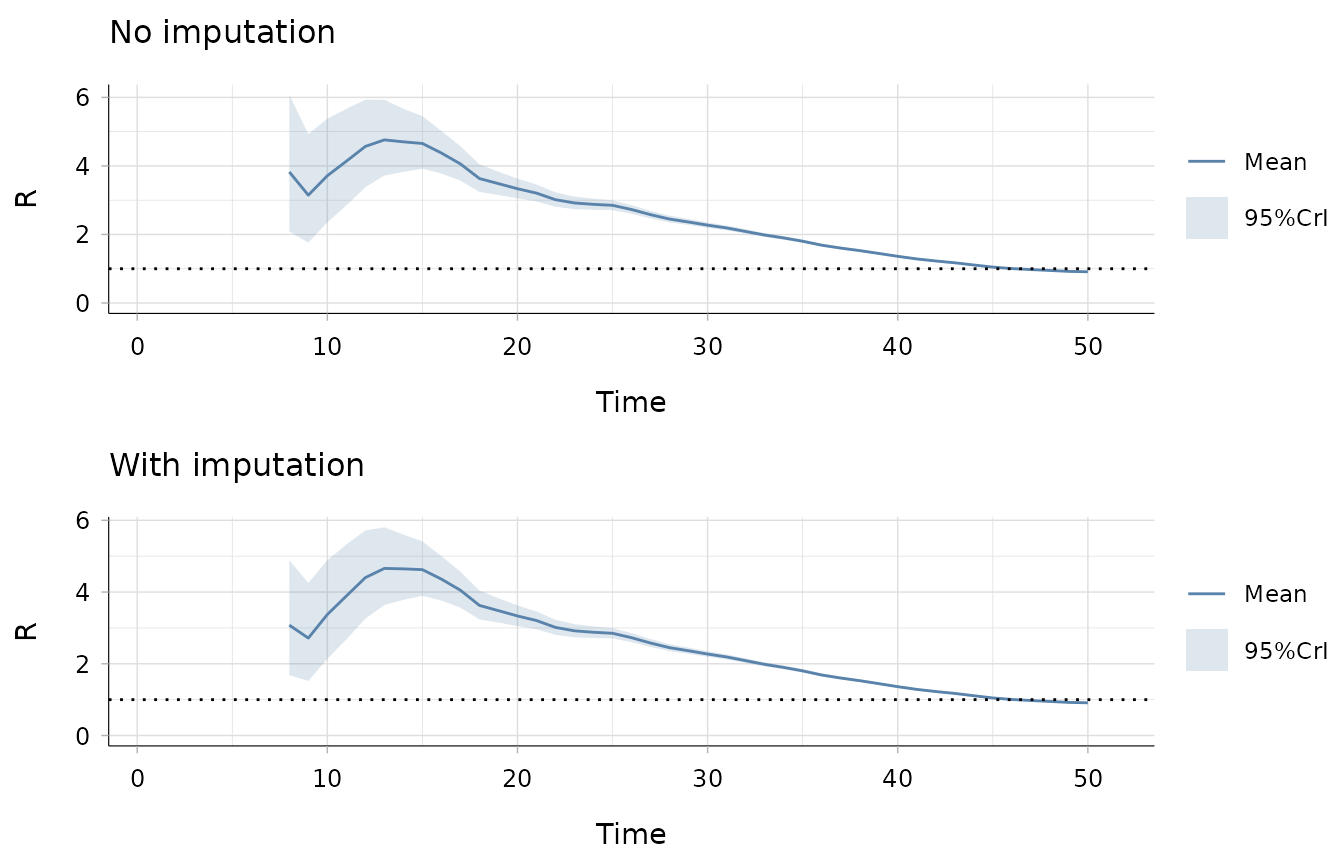
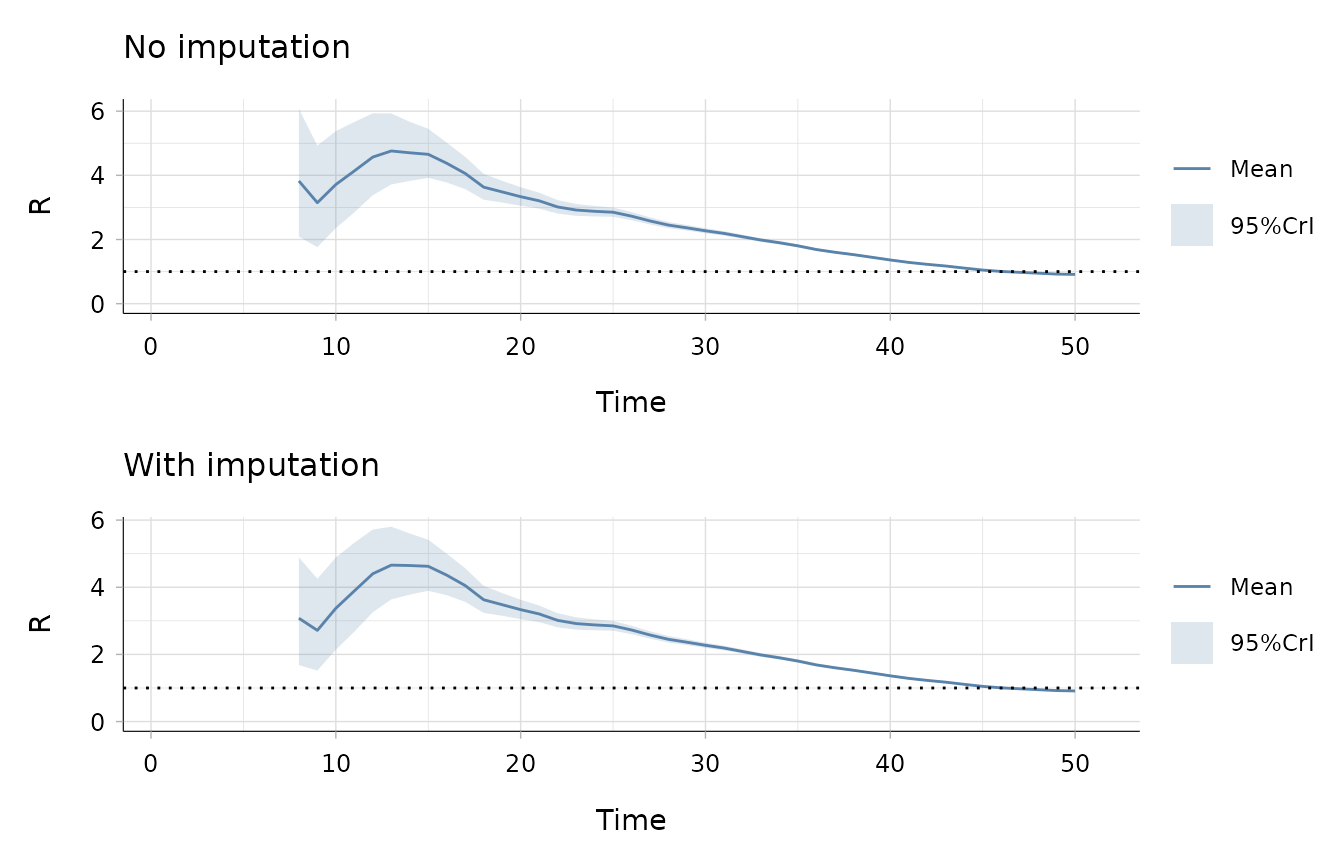
Deploying to gh-pages from @ mrc-ide/EpiEstim@5bb062a2363d33360a8db5c6b178de067da6e3aa 🚀

diff --git a/reference/plot.estimate_R.html b/reference/plot.estimate_R.html
@@ -94,10 +94,10 @@ interval.</p>
 <span>  what <span class="op">=</span> <span class="fu"><a href="https://rdrr.io/r/base/c.html" class="external-link">c</a></span><span class="op">(</span><span class="st">"all"</span>, <span class="st">"incid"</span>, <span class="st">"R"</span>, <span class="st">"SI"</span><span class="op">)</span>,</span>
 <span>  plot_theme <span class="op">=</span> <span class="st">"v2"</span>,</span>
 <span>  add_imported_cases <span class="op">=</span> <span class="cn">FALSE</span>,</span>
-<span>  options_I <span class="op">=</span> <span class="fu"><a href="https://rdrr.io/r/base/list.html" class="external-link">list</a></span><span class="op">(</span>col <span class="op">=</span> <span class="fu"><a href="https://rdrr.io/r/grDevices/palette.html" class="external-link">palette</a></span><span class="op">(</span><span class="op">)</span>, transp <span class="op">=</span> <span class="fl">0.7</span>, xlim <span class="op">=</span> <span class="cn">NULL</span>, ylim <span class="op">=</span> <span class="cn">NULL</span>, interval <span class="op">=</span></span>
-<span>    <span class="fl">1L</span>, xlab <span class="op">=</span> <span class="st">"Time"</span>, ylab <span class="op">=</span> <span class="st">"Incidence"</span><span class="op">)</span>,</span>
-<span>  options_R <span class="op">=</span> <span class="fu"><a href="https://rdrr.io/r/base/list.html" class="external-link">list</a></span><span class="op">(</span>col <span class="op">=</span> <span class="fu"><a href="https://rdrr.io/r/grDevices/palette.html" class="external-link">palette</a></span><span class="op">(</span><span class="op">)</span>, transp <span class="op">=</span> <span class="fl">0.2</span>, xlim <span class="op">=</span> <span class="cn">NULL</span>, ylim <span class="op">=</span> <span class="cn">NULL</span>, xlab <span class="op">=</span></span>
-<span>    <span class="st">"Time"</span>, ylab <span class="op">=</span> <span class="st">"R"</span><span class="op">)</span>,</span>
+<span>  options_I <span class="op">=</span> <span class="fu"><a href="https://rdrr.io/r/base/list.html" class="external-link">list</a></span><span class="op">(</span>col <span class="op">=</span> <span class="fu">grDevices</span><span class="fu">::</span><span class="fu"><a href="https://rdrr.io/r/grDevices/palette.html" class="external-link">palette</a></span><span class="op">(</span><span class="op">)</span>, transp <span class="op">=</span> <span class="fl">0.7</span>, xlim <span class="op">=</span> <span class="cn">NULL</span>, ylim <span class="op">=</span> <span class="cn">NULL</span>,</span>
+<span>    interval <span class="op">=</span> <span class="fl">1L</span>, xlab <span class="op">=</span> <span class="st">"Time"</span>, ylab <span class="op">=</span> <span class="st">"Incidence"</span><span class="op">)</span>,</span>
+<span>  options_R <span class="op">=</span> <span class="fu"><a href="https://rdrr.io/r/base/list.html" class="external-link">list</a></span><span class="op">(</span>col <span class="op">=</span> <span class="fu">grDevices</span><span class="fu">::</span><span class="fu"><a href="https://rdrr.io/r/grDevices/palette.html" class="external-link">palette</a></span><span class="op">(</span><span class="op">)</span>, transp <span class="op">=</span> <span class="fl">0.2</span>, xlim <span class="op">=</span> <span class="cn">NULL</span>, ylim <span class="op">=</span> <span class="cn">NULL</span>,</span>
+<span>    xlab <span class="op">=</span> <span class="st">"Time"</span>, ylab <span class="op">=</span> <span class="st">"R"</span><span class="op">)</span>,</span>
 <span>  options_SI <span class="op">=</span> <span class="fu"><a href="https://rdrr.io/r/base/list.html" class="external-link">list</a></span><span class="op">(</span>prob_min <span class="op">=</span> <span class="fl">0.001</span>, col <span class="op">=</span> <span class="st">"black"</span>, transp <span class="op">=</span> <span class="fl">0.25</span>, xlim <span class="op">=</span> <span class="cn">NULL</span>, ylim <span class="op">=</span></span>
 <span>    <span class="cn">NULL</span>, xlab <span class="op">=</span> <span class="st">"Time"</span>, ylab <span class="op">=</span> <span class="st">"Frequency"</span><span class="op">)</span>,</span>
 <span>  legend <span class="op">=</span> <span class="cn">TRUE</span>,</span>
@@ -110,10 +110,10 @@ interval.</p>
 <span>  what <span class="op">=</span> <span class="fu"><a href="https://rdrr.io/r/base/c.html" class="external-link">c</a></span><span class="op">(</span><span class="st">"all"</span>, <span class="st">"incid"</span>, <span class="st">"R"</span>, <span class="st">"SI"</span><span class="op">)</span>,</span>
 <span>  plot_theme <span class="op">=</span> <span class="st">"v2"</span>,</span>
 <span>  add_imported_cases <span class="op">=</span> <span class="cn">FALSE</span>,</span>
-<span>  options_I <span class="op">=</span> <span class="fu"><a href="https://rdrr.io/r/base/list.html" class="external-link">list</a></span><span class="op">(</span>col <span class="op">=</span> <span class="fu"><a href="https://rdrr.io/r/grDevices/palette.html" class="external-link">palette</a></span><span class="op">(</span><span class="op">)</span>, transp <span class="op">=</span> <span class="fl">0.7</span>, xlim <span class="op">=</span> <span class="cn">NULL</span>, ylim <span class="op">=</span> <span class="cn">NULL</span>, interval <span class="op">=</span></span>
-<span>    <span class="fl">1L</span>, xlab <span class="op">=</span> <span class="st">"Time"</span>, ylab <span class="op">=</span> <span class="st">"Incidence"</span><span class="op">)</span>,</span>
-<span>  options_R <span class="op">=</span> <span class="fu"><a href="https://rdrr.io/r/base/list.html" class="external-link">list</a></span><span class="op">(</span>col <span class="op">=</span> <span class="fu"><a href="https://rdrr.io/r/grDevices/palette.html" class="external-link">palette</a></span><span class="op">(</span><span class="op">)</span>, transp <span class="op">=</span> <span class="fl">0.2</span>, xlim <span class="op">=</span> <span class="cn">NULL</span>, ylim <span class="op">=</span> <span class="cn">NULL</span>, xlab <span class="op">=</span></span>
-<span>    <span class="st">"Time"</span>, ylab <span class="op">=</span> <span class="st">"R"</span><span class="op">)</span>,</span>
+<span>  options_I <span class="op">=</span> <span class="fu"><a href="https://rdrr.io/r/base/list.html" class="external-link">list</a></span><span class="op">(</span>col <span class="op">=</span> <span class="fu">grDevices</span><span class="fu">::</span><span class="fu"><a href="https://rdrr.io/r/grDevices/palette.html" class="external-link">palette</a></span><span class="op">(</span><span class="op">)</span>, transp <span class="op">=</span> <span class="fl">0.7</span>, xlim <span class="op">=</span> <span class="cn">NULL</span>, ylim <span class="op">=</span> <span class="cn">NULL</span>,</span>
+<span>    interval <span class="op">=</span> <span class="fl">1L</span>, xlab <span class="op">=</span> <span class="st">"Time"</span>, ylab <span class="op">=</span> <span class="st">"Incidence"</span><span class="op">)</span>,</span>
+<span>  options_R <span class="op">=</span> <span class="fu"><a href="https://rdrr.io/r/base/list.html" class="external-link">list</a></span><span class="op">(</span>col <span class="op">=</span> <span class="fu">grDevices</span><span class="fu">::</span><span class="fu"><a href="https://rdrr.io/r/grDevices/palette.html" class="external-link">palette</a></span><span class="op">(</span><span class="op">)</span>, transp <span class="op">=</span> <span class="fl">0.2</span>, xlim <span class="op">=</span> <span class="cn">NULL</span>, ylim <span class="op">=</span> <span class="cn">NULL</span>,</span>
+<span>    xlab <span class="op">=</span> <span class="st">"Time"</span>, ylab <span class="op">=</span> <span class="st">"R"</span><span class="op">)</span>,</span>
 <span>  options_SI <span class="op">=</span> <span class="fu"><a href="https://rdrr.io/r/base/list.html" class="external-link">list</a></span><span class="op">(</span>prob_min <span class="op">=</span> <span class="fl">0.001</span>, col <span class="op">=</span> <span class="st">"black"</span>, transp <span class="op">=</span> <span class="fl">0.25</span>, xlim <span class="op">=</span> <span class="cn">NULL</span>, ylim <span class="op">=</span></span>
 <span>    <span class="cn">NULL</span>, xlab <span class="op">=</span> <span class="st">"Time"</span>, ylab <span class="op">=</span> <span class="st">"Frequency"</span><span class="op">)</span>,</span>
 <span>  legend <span class="op">=</span> <span class="cn">TRUE</span>,</span>
@@ -266,7 +266,8 @@ theme by Rebecca Nash</p>
 <span class="r-in"><span><span class="va">p_Rc</span> <span class="op">&lt;-</span> <span class="fu"><a href="https://rdrr.io/r/graphics/plot.default.html" class="external-link">plot</a></span><span class="op">(</span><span class="va">R_c</span>, <span class="st">"R"</span>,</span></span>
 <span class="r-in"><span>             options_R <span class="op">=</span> <span class="fu"><a href="https://rdrr.io/r/base/list.html" class="external-link">list</a></span><span class="op">(</span>ylim <span class="op">=</span> <span class="fu"><a href="https://rdrr.io/r/base/c.html" class="external-link">c</a></span><span class="op">(</span><span class="fl">0</span>, <span class="fl">4</span><span class="op">)</span><span class="op">)</span><span class="op">)</span></span></span>
 <span class="r-in"><span><span class="co"># plots the estimated case reproduction number</span></span></span>
-<span class="r-in"><span><span class="fu">gridExtra</span><span class="fu">::</span><span class="fu"><a href="https://rdrr.io/pkg/gridExtra/man/arrangeGrob.html" class="external-link">grid.arrange</a></span><span class="op">(</span><span class="va">p_I</span>, <span class="va">p_SI</span>, <span class="va">p_Ri</span>, <span class="va">p_Rc</span>, ncol <span class="op">=</span> <span class="fl">2</span><span class="op">)</span></span></span>
+<span class="r-in"><span><span class="kw"><a href="https://rdrr.io/r/base/library.html" class="external-link">library</a></span><span class="op">(</span><span class="va"><a href="https://patchwork.data-imaginist.com" class="external-link">patchwork</a></span><span class="op">)</span> <span class="co"># For figure placement</span></span></span>
+<span class="r-in"><span><span class="op">(</span><span class="va">p_I</span> <span class="op">+</span> <span class="va">p_SI</span><span class="op">)</span> <span class="op">/</span> <span class="op">(</span><span class="va">p_Ri</span> <span class="op">+</span> <span class="va">p_Rc</span><span class="op">)</span></span></span>
 <span class="r-plt img"><img src="plot.estimate_R-2.png" alt="" width="700" height="433"></span>
 </code></pre></div>
     </div>

diff --git a/reference/estimate_R.html b/reference/estimate_R.html
@@ -417,9 +417,10 @@ from the output of <code>estimate_R()</code></p></li>
 <span class="r-in"><span>                          mean_si <span class="op">=</span> <span class="fu"><a href="https://rdrr.io/r/base/mean.html" class="external-link">mean</a></span><span class="op">(</span><span class="va">R_si_from_data</span><span class="op">$</span><span class="va">SI.Moments</span><span class="op">$</span><span class="va">Mean</span><span class="op">)</span>,</span></span>
 <span class="r-in"><span>                             std_si <span class="op">=</span> <span class="fu"><a href="https://rdrr.io/r/base/mean.html" class="external-link">mean</a></span><span class="op">(</span><span class="va">R_si_from_data</span><span class="op">$</span><span class="va">SI.Moments</span><span class="op">$</span><span class="va">Std</span><span class="op">)</span><span class="op">)</span><span class="op">)</span><span class="op">)</span></span></span>
 <span class="r-in"><span><span class="co">## generate plots</span></span></span>
+<span class="r-in"><span><span class="kw"><a href="https://rdrr.io/r/base/library.html" class="external-link">library</a></span><span class="op">(</span><span class="va"><a href="https://patchwork.data-imaginist.com" class="external-link">patchwork</a></span><span class="op">)</span> <span class="co"># To arrange side-by-side</span></span></span>
 <span class="r-in"><span><span class="va">p_uncertainty</span> <span class="op">&lt;-</span> <span class="fu"><a href="https://rdrr.io/r/graphics/plot.default.html" class="external-link">plot</a></span><span class="op">(</span><span class="va">R_si_from_data</span>, <span class="st">"R"</span>, options_R<span class="op">=</span><span class="fu"><a href="https://rdrr.io/r/base/list.html" class="external-link">list</a></span><span class="op">(</span>ylim<span class="op">=</span><span class="fu"><a href="https://rdrr.io/r/base/c.html" class="external-link">c</a></span><span class="op">(</span><span class="fl">0</span>, <span class="fl">1.5</span><span class="op">)</span><span class="op">)</span><span class="op">)</span></span></span>
 <span class="r-in"><span><span class="va">p_no_uncertainty</span> <span class="op">&lt;-</span> <span class="fu"><a href="https://rdrr.io/r/graphics/plot.default.html" class="external-link">plot</a></span><span class="op">(</span><span class="va">R_Parametric</span>, <span class="st">"R"</span>, options_R<span class="op">=</span><span class="fu"><a href="https://rdrr.io/r/base/list.html" class="external-link">list</a></span><span class="op">(</span>ylim<span class="op">=</span><span class="fu"><a href="https://rdrr.io/r/base/c.html" class="external-link">c</a></span><span class="op">(</span><span class="fl">0</span>, <span class="fl">1.5</span><span class="op">)</span><span class="op">)</span><span class="op">)</span></span></span>
-<span class="r-in"><span><span class="fu">gridExtra</span><span class="fu">::</span><span class="fu"><a href="https://rdrr.io/pkg/gridExtra/man/arrangeGrob.html" class="external-link">grid.arrange</a></span><span class="op">(</span><span class="va">p_uncertainty</span>, <span class="va">p_no_uncertainty</span>,ncol<span class="op">=</span><span class="fl">2</span><span class="op">)</span></span></span>
+<span class="r-in"><span><span class="va">p_uncertainty</span> <span class="op">+</span> <span class="va">p_no_uncertainty</span></span></span>
 <span class="r-in"><span></span></span>
 <span class="r-in"><span><span class="co">## the left hand side graph is with uncertainty in the SI distribution, the</span></span></span>
 <span class="r-in"><span><span class="co">## right hand side without.</span></span></span>

diff --git a/articles/EpiEstim_backimputation.html b/articles/EpiEstim_backimputation.html
@@ -223,12 +223,12 @@ this is the case.</p>
 <span><span class="op">)</span></span>
 <span><span class="co">#&gt; Default config will estimate R on weekly sliding windows.</span></span>
 <span><span class="co">#&gt;     To change this change the t_start and t_end arguments.</span></span>
-<span><span class="fu">gridExtra</span><span class="fu">::</span><span class="fu"><a href="https://rdrr.io/pkg/gridExtra/man/arrangeGrob.html" class="external-link">grid.arrange</a></span><span class="op">(</span></span>
-<span>  <span class="fu"><a href="https://rdrr.io/r/graphics/plot.default.html" class="external-link">plot</a></span><span class="op">(</span><span class="va">no_truncation_no_imputation</span>, <span class="st">"R"</span><span class="op">)</span> <span class="op">+</span> <span class="fu">ggtitle</span><span class="op">(</span><span class="st">"No imputation"</span><span class="op">)</span>,</span>
-<span>  <span class="fu"><a href="https://rdrr.io/r/graphics/plot.default.html" class="external-link">plot</a></span><span class="op">(</span><span class="va">no_truncation_with_imputation</span>, <span class="st">"R"</span><span class="op">)</span> <span class="op">+</span> <span class="fu">ggtitle</span><span class="op">(</span><span class="st">"With imputation"</span><span class="op">)</span></span>
-<span><span class="op">)</span></span></code></pre></div>
-<p><img src="EpiEstim_backimputation_files/figure-html/covid-no-imputation-1.png" class="r-plt" alt="" width="672">
-The reduction in R<sub>t</sub> estimates is strongest in the early
+<span><span class="va">p1</span> <span class="op">&lt;-</span> <span class="fu"><a href="https://rdrr.io/r/graphics/plot.default.html" class="external-link">plot</a></span><span class="op">(</span><span class="va">no_truncation_no_imputation</span>, <span class="st">"R"</span><span class="op">)</span> <span class="op">+</span> <span class="fu">ggtitle</span><span class="op">(</span><span class="st">"No imputation"</span><span class="op">)</span></span>
+<span><span class="va">p2</span> <span class="op">&lt;-</span> <span class="fu"><a href="https://rdrr.io/r/graphics/plot.default.html" class="external-link">plot</a></span><span class="op">(</span><span class="va">no_truncation_with_imputation</span>, <span class="st">"R"</span><span class="op">)</span> <span class="op">+</span> <span class="fu">ggtitle</span><span class="op">(</span><span class="st">"With imputation"</span><span class="op">)</span></span>
+<span></span>
+<span><span class="va">p1</span> <span class="op">/</span> <span class="va">p2</span></span></code></pre></div>
+<p><img src="EpiEstim_backimputation_files/figure-html/covid-no-imputation-1.png" class="r-plt" alt="" width="672"></p>
+<p>The reduction in R<sub>t</sub> estimates is strongest in the early
 stages, and vanishes with time.</p>
 <div class="sourceCode" id="cb5"><pre class="downlit sourceCode r">
 <code class="sourceCode R"><span><span class="va">time</span> <span class="op">&lt;-</span> <span class="va">no_truncation_no_imputation</span><span class="op">$</span><span class="va">R</span><span class="op">[</span>, <span class="fu"><a href="https://rdrr.io/r/base/c.html" class="external-link">c</a></span><span class="op">(</span><span class="st">"t_start"</span>, <span class="st">"t_end"</span><span class="op">)</span><span class="op">]</span></span>

diff --git a/reference/backimpute_I.html b/reference/backimpute_I.html
@@ -125,7 +125,6 @@ cases (with rows indexed by a non-negative integer)</p>
 <span class="r-in"><span><span class="va">incid_all</span></span></span>
 <span class="r-out co"><span class="r-pr">#&gt;</span>  [1]   1   2   2   3   4   5   7   9  12  15  21  28  37  50  67  91 122 165 222</span>
 <span class="r-out co"><span class="r-pr">#&gt;</span> [20] 299 404</span>
-<span class="r-in"><span></span></span>
 </code></pre></div>
     </div>
   </div>
